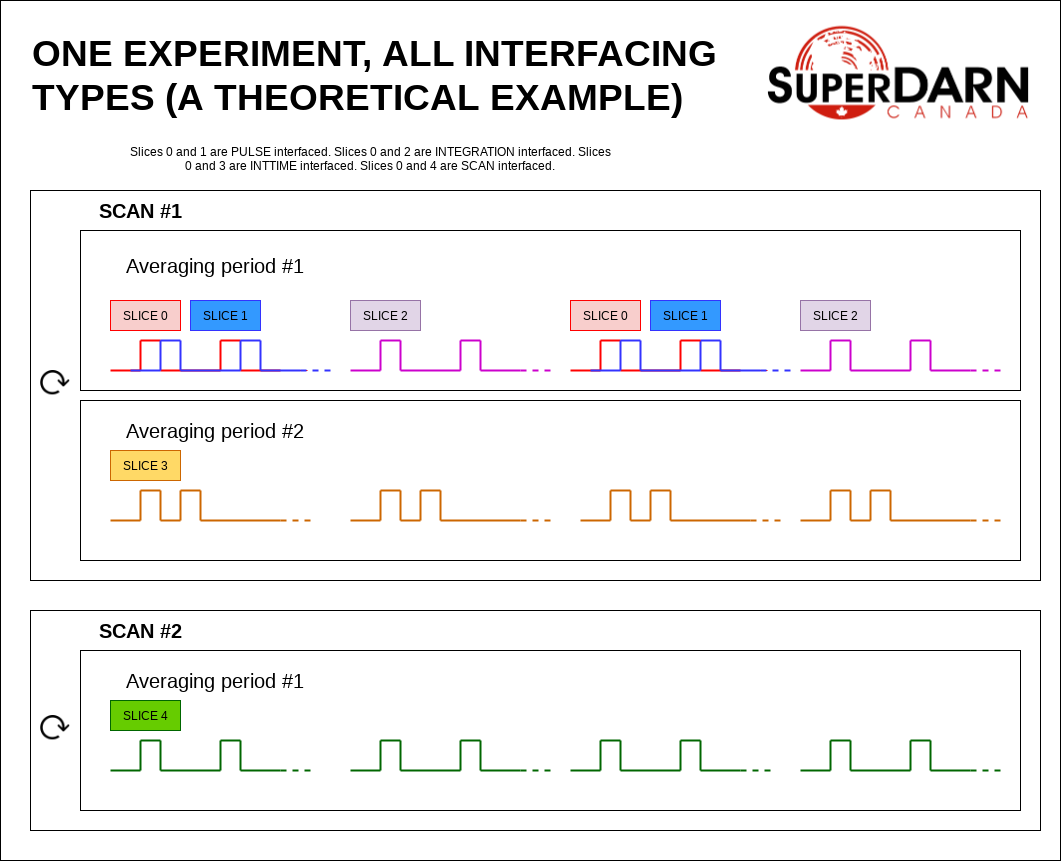
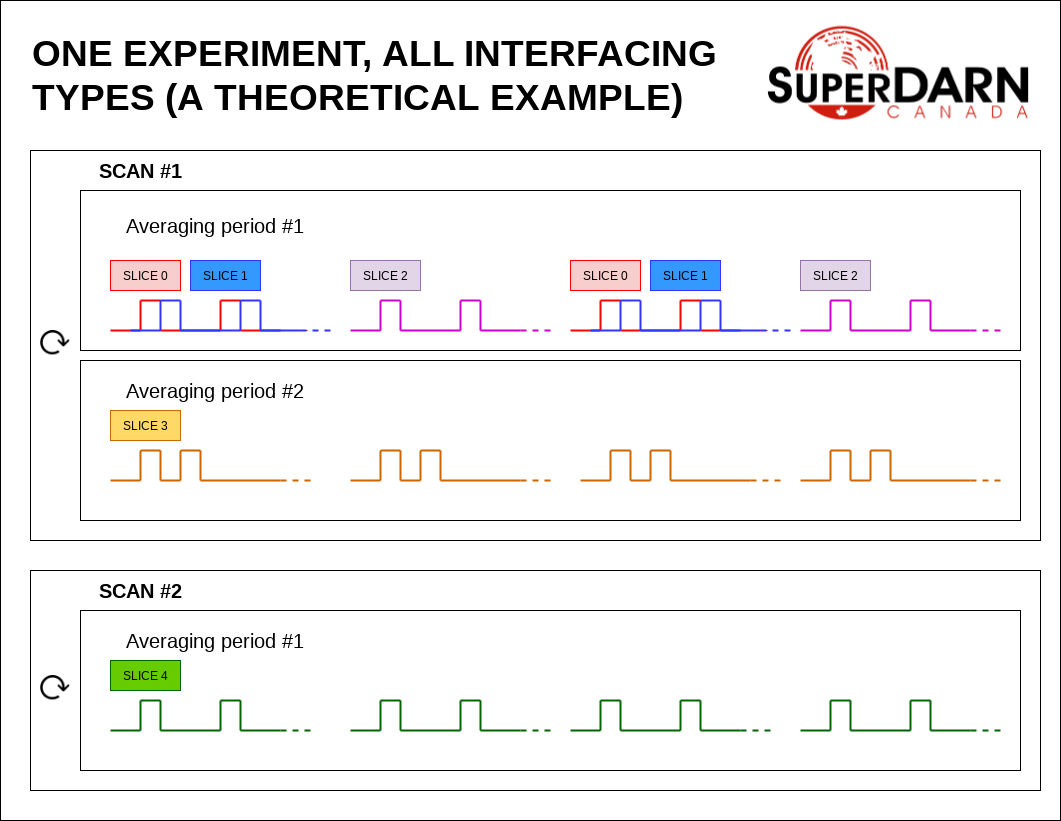
Updates to interfacing images, formatting

diff --git a/docs/source/building_an_experiment.rst b/docs/source/building_an_experiment.rst
@@ -7,67 +7,87 @@ Borealis has an extensive set of features and this means that experiments can en
 Each slice contains the information needed about a specific pulse sequence to run. The parameters of a slice contain features such as pulse sequence, frequency, fundamental time lag spacing, etc. These are the parameters that researchers will be familiar with. Each slice can be an experiment on its
 own, or can be just a piece of a larger experiment. 
 
-## What are slices? 
+What are slices? 
+----------------
+
 Slices are software objects made for the Borealis system that allow easy integration of 
 multiple modes into a single experiment. Each slice could be an experiment on its own, and 
 averaged products are produced from each slice individually. Slices can be used to create 
 separate frequency channels, separate pulse sequences, separate beam scanning order, 
 etc. that can run simultaneously. Slices can be interfaced in four different ways. 
  
-What makes a slice unique? 
-- tx or rx frequency
-- pulse sequence
-- tau spacing (mpinc)
-- pulse length
-- number of range gates
-- first range gate
-- beam directions
-- beam order
-or any combination of these.
+The following parameters are unique to a slice:  
+
+* tx or rx frequency
+* pulse sequence
+* tau spacing (mpinc)
+* pulse length
+* number of range gates
+* first range gate
+* beam directions
+* beam order
 
 The other necessary part of an experiment is specifying how slices will interface with each other. Interfacing in this case refers to how these two components are meant to be run. To understand the interfacing, lets first understand the basic building blocks of a SuperDARN experiment. These are:
 
 **Sequence (integration)**  
+
 Made up of pulses with a specific spacing, at a specific frequency, and with a specified receive time 
-following the transmission (to gather information from the numberof ranges specified).
+following the transmission (to gather information from the number of ranges specified).
 
 **Averaging period (integration time)**  
+
 A time where the sequences are repeated to gather enough information to average and reduce the effect of 
 spurious emissions on the data. These are defined by either number of sequences, or a length of time during 
 which as many sequences as possible are transmitted.
 
 **Scan**  
+
 A time where the averaging periods are repeated, often with the pulses mixed to look in different beam 
 directions with each averaging period. A scan is defined by the number of beams or integration times.
+
+Interfacing types
+-----------------
 
 Knowing these definitions, the following types of interfacing are possible:
 
 **1. SCAN**   
+
 The scan by scan interfacing allows for slices to run a scan of one slice, followed by a scan of the second. The scan mode of interfacing typically means that the slice will cycle through all of its beams before switching to another slice.
 
 **2. INTTIME**   
+
 This type of interfacing allows for an integration period to run for one slice, before switching to another. This type of interface effectively creates an interleaving scan where the scans for different slices are run simultaneously, however the pulse sequences are alternated integration time by 
 integration time rather than run concurrently.
 
 **3. INTEGRATION**   
+
 Integration interfacing allows for pulse sequences defined in the slices to alternate sequence by sequence each other within an integration period. Slices which are interfaced in this manner must share the same INTT and INTN values for this to work. It's important to remember that each sequence 
 only averages with sequences from the same slice. 
 
 **4. PULSE**   
+
 Pulse interfacing allows for pulse sequences to be run together concurrently. Slices will have their pulse sequences mixed and layered together so that the data transmits at the same time. Slices of different frequencies can be 
 mixed simultaneously and slices of different pulse sequences can also run together at the cost of having more blanked samples.
 
 Let's look at some examples of common experiments that can easily be separated into multiple slices. 
+
+In a CUTLASS-style experiment, the pulse in the sequence is actually two pulses of differing transmit frequency. This is a 'quasi'-simultaneous multi-frequency experiment. To build this experiment, two slices can be PULSE interfaced. The pulses from both slices are combined into a single sequence and data from those integrations are used for both slices (filtering the raw data separates the frequencies). 
 
 .. image:: img/cutlass.png
    :width: 800px
    :alt: CUTLASS-style experiment slice interfacing 
    :align: center
 
+In a themisscan experiment, a single beam is interleaved with a full scan. The beam_order can be unique to different slices, and these slices could be INTTIME interfaced to separate the camping beam data from the full scan,
+if desired. With INTTIME interfacing, one averaging period of one slice will be followed by an averaging period of another, and so on. The averaging periods are interleaved. The resulting experiment runs beams 0, 7, 1, 7, etc. 
+
 .. image:: img/themisscan.png
    :width: 800px
    :alt: THEMISSCAN slice interfacing 
    :align: center
+
+In a twofsound experiment, a full scan of one frequency is followed by a full scan of another frequency. The txfreq are unique between the slices. In this experiment, the slices are SCAN interfaced. A full scan of slice 0 runs 
+followed by a full scan of slice 1, and then the process repeats. 
 
 .. image:: img/twofsound.png
    :width: 800px
@@ -75,7 +95,7 @@ Let's look at some examples of common experiments that can easily be separated i
    :align: center
 
 
-Here's a theoretical example showing all types of interfacing:
+Here's a theoretical example showing all types of interfacing. In this example, slices 0 and 1 are PULSE interfaced. Slices 0 and 2 are INTEGRATION interfaced. Slices 0 and 3 are INTTIME interfaced. Slices 0 and 4 are SCAN interfaced.
 
 .. image:: img/one-experiment-all-interfacing-types.png
    :width: 800px
